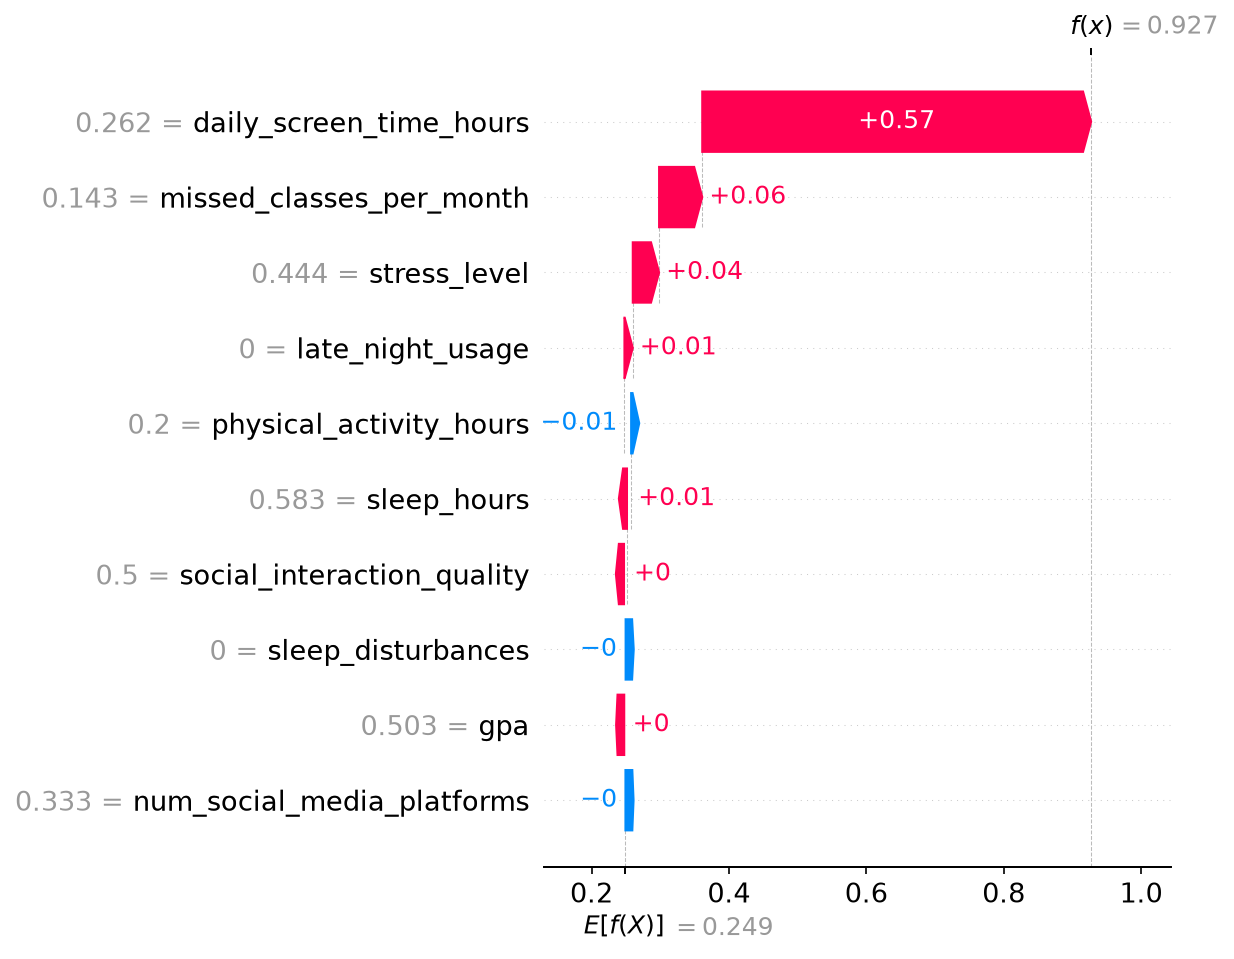
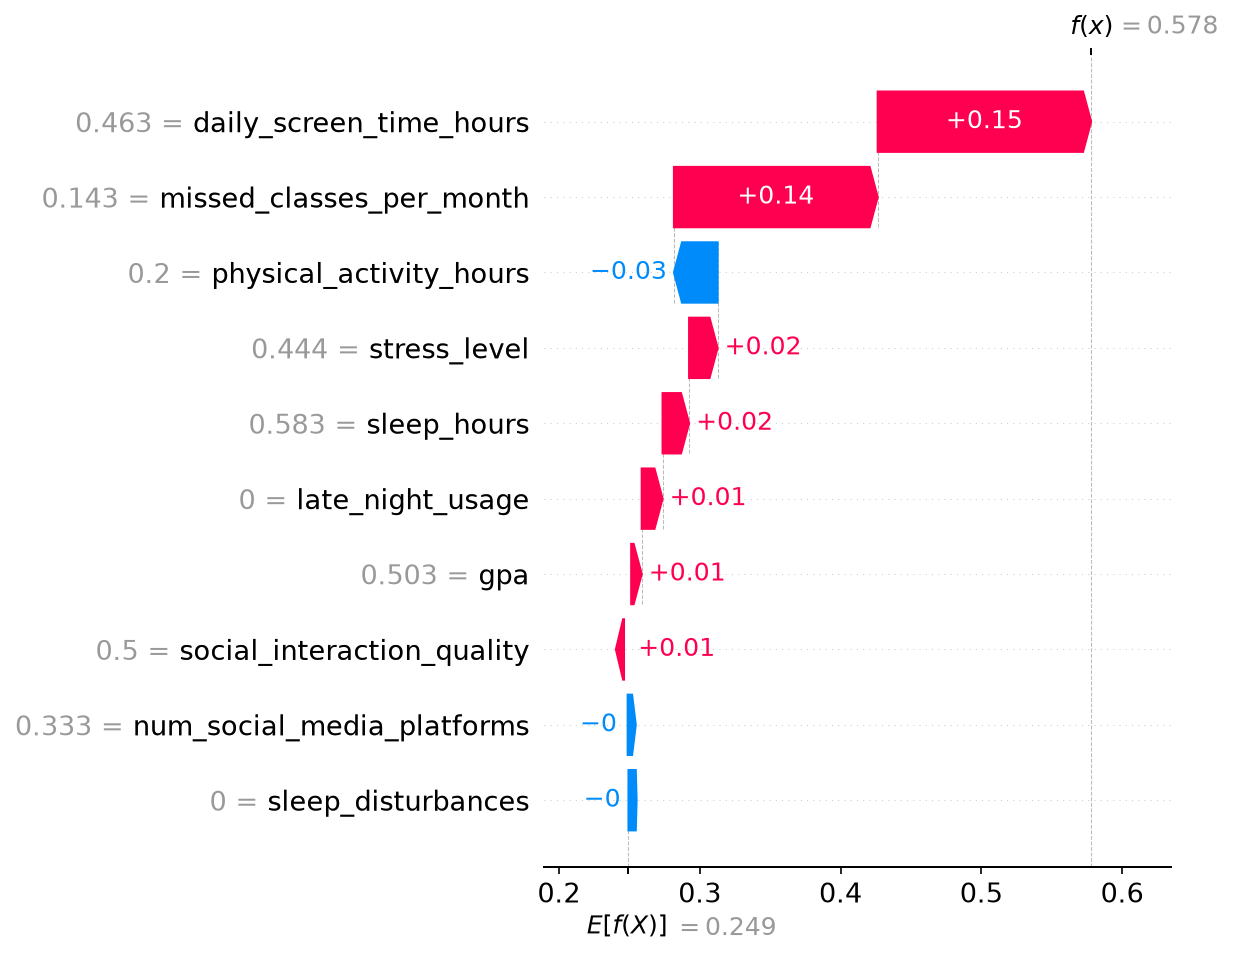
Stable dashboards before frontend backend integration

diff --git a/backend/main.py b/backend/main.py
@@ -199,6 +199,10 @@ async def predict_batch(file: UploadFile = File(...)) -> Dict[str, Any]:
         # Convert to DataFrame and run batch prediction
         raw_df = read_uploaded_file(data_stream)
         result = predict_from_dataframe(raw_df)
+
+        print(f"DEBUG: Alerts type: {type(result['alerts'])}")
+        print(f"DEBUG: Results DF type: {type(result['results_df'])}")
+        print(f"DEBUG: Results Head:\n{result['results_df'].head()}")
         
         return {
             "status": "success",
